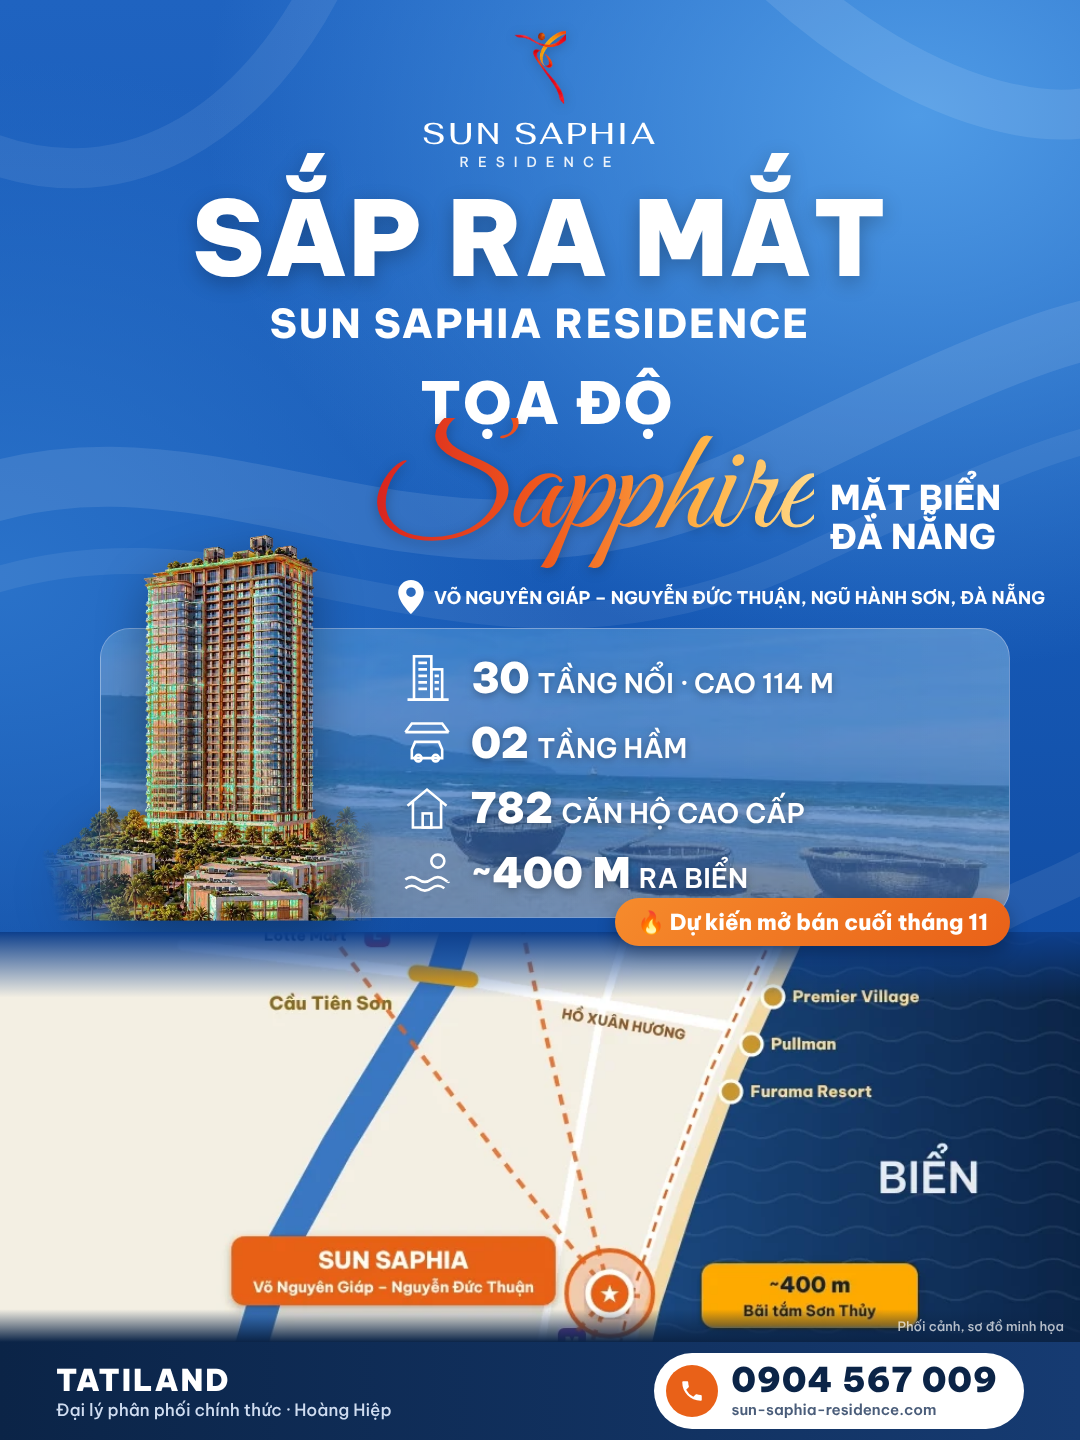
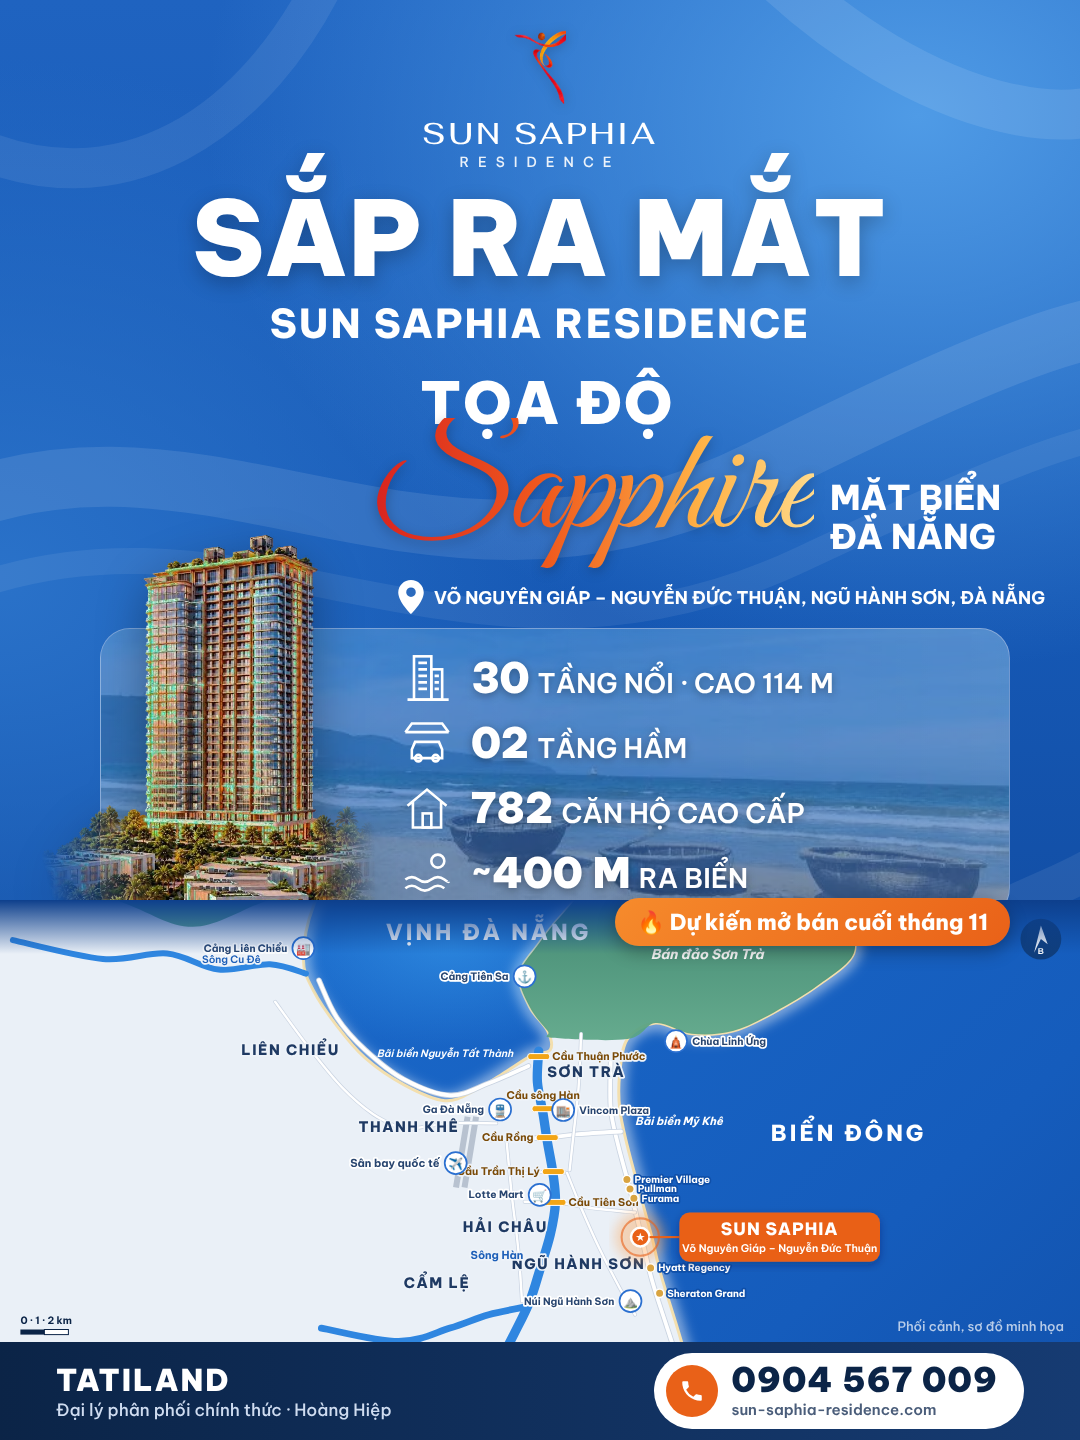
Bản đồ Đà Nẵng theo tọa độ thật + poster dùng bản đồ mới
Claude-Session: https://claude.ai/code/session_01QqqhqeJL7dLdZQGmjqHGDV

Changed region(s): [[0.0, 0.625, 1.0, 0.9375]]

diff --git a/landing/sun-saphia/seo/poster-sap-ra-mat/poster.html b/landing/sun-saphia/seo/poster-sap-ra-mat/poster.html
@@ -27,11 +27,11 @@ body{background:#ccc;font-family:"Be Vietnam Pro",sans-serif}
 .st svg{flex:none;width:52px;height:52px}
 .st p{font-size:27px;white-space:nowrap;font-weight:600;text-shadow:0 2px 8px rgba(0,0,0,.35)}
 .st p b{font-size:42px;font-weight:900;margin-right:8px}
-.mp{position:absolute;left:0;right:0;top:932px;height:410px;overflow:hidden}
-.mp img{width:100%;height:100%;object-fit:cover;object-position:50% 50%;display:block}
-.mp::before{content:"";position:absolute;inset:0;background:linear-gradient(180deg,#0d3f8c 0%,rgba(13,63,140,0) 16%,rgba(13,63,140,0) 92%,#0B2447 100%);z-index:1}
+.mp{position:absolute;left:0;right:0;top:900px;height:540px;overflow:hidden}
+.mp img{width:100%;height:100%;object-fit:cover;object-position:50% 100%;display:block}
+.mp::before{content:"";position:absolute;inset:0;background:linear-gradient(180deg,#0d3f8c 0%,rgba(13,63,140,0) 10%,rgba(13,63,140,0) 100%,#0B2447 100%);z-index:1}
 .mo{position:absolute;top:898px;right:70px;z-index:3;background:linear-gradient(135deg,#F68B2C,#E96118);font-weight:800;font-size:22px;padding:10px 22px;border-radius:999px;box-shadow:0 6px 18px rgba(0,0,0,.3)}
-.ft{position:absolute;left:0;right:0;bottom:0;height:98px;display:flex;align-items:center;gap:22px;padding:0 56px;background:linear-gradient(90deg,#0B2447,#163b72)}
+.ft{position:absolute;left:0;right:0;bottom:0;height:98px;z-index:4;display:flex;align-items:center;gap:22px;padding:0 56px;background:linear-gradient(90deg,#0B2447,#163b72)}
 .ft .a b{display:block;font-weight:900;font-size:30px;letter-spacing:2px}
 .ft .a span{font-size:17px;color:#cfdcf0}
 .ft .r{margin-left:auto;display:flex;align-items:center;gap:14px;background:#fff;color:#0B2447;border-radius:999px;padding:10px 26px 10px 12px}
@@ -65,7 +65,7 @@ body{background:#ccc;font-family:"Be Vietnam Pro",sans-serif}
  </div>
  <img class="tw" src="../../../../projects/sun-saphia/sk2310/thap-cat-3.webp" alt="">
  <div class="mo">🔥 Dự kiến mở bán cuối tháng 11</div>
- <div class="mp"><img src="ban-do.webp" alt=""></div>
+ <div class="mp"><img src="../ban-do-da-nang/ban-do-poster.png" alt=""></div>
  <div class="mh">Phối cảnh, sơ đồ minh họa</div>
  <div class="ft"><div class="a"><b>TATILAND</b><span>Đại lý phân phối chính thức · Hoàng Hiệp</span></div>
   <div class="r"><i><svg width="26" height="26" viewBox="0 0 24 24" fill="#fff"><path d="M6.6 10.8a15.1 15.1 0 006.6 6.6l2.2-2.2c.3-.3.7-.4 1-.2 1.1.4 2.3.6 3.6.6.6 0 1 .4 1 1V20c0 .6-.4 1-1 1C10.6 21 3 13.4 3 4c0-.6.4-1 1-1h3.5c.6 0 1 .4 1 1 0 1.3.2 2.5.6 3.6.1.3 0 .7-.2 1z"/></svg></i><div><b>0904 567 009</b><small>sun-saphia-residence.com</small></div></div></div>

diff --git a/landing/sun-saphia/seo/ban-do-da-nang/ve_ban_do.py b/landing/sun-saphia/seo/ban-do-da-nang/ve_ban_do.py
@@ -1,0 +1,151 @@
+"""Vẽ bản đồ Đà Nẵng (SVG) theo tọa độ thật (lon/lat, phép chiếu đều có hiệu chỉnh cos vĩ độ).
+Đường bờ biển: phác theo Natural Earth 10m + tọa độ các điểm mốc; mang tính minh họa."""
+import math, sys
+
+SEA = [  # (lon, lat) – vùng biển: vịnh Đà Nẵng + Biển Đông
+ (108.205,16.30),(108.60,16.30),(108.60,15.90),(108.305,15.90),(108.290,15.950),(108.280,15.985),(108.272,16.010),
+ (108.2685,16.024),(108.264,16.040),(108.259,16.058),(108.256,16.072),(108.256,16.085),(108.259,16.098),
+ (108.270,16.104),(108.284,16.100),(108.300,16.101),(108.316,16.108),(108.333,16.118),(108.347,16.130),
+ (108.343,16.143),(108.328,16.152),(108.308,16.142),(108.288,16.150),(108.265,16.160),(108.246,16.156),
+ (108.234,16.145),(108.224,16.133),(108.217,16.122),(108.221,16.110),(108.228,16.101),(108.229,16.094),
+ (108.222,16.092),(108.212,16.086),(108.200,16.079),(108.188,16.075),(108.172,16.081),(108.157,16.091),
+ (108.146,16.103),(108.137,16.116),(108.133,16.128),(108.137,16.148),(108.150,16.170),(108.172,16.190),
+ (108.195,16.203),(108.205,16.30)]
+SONTRA = [(108.2300,16.0985)] + SEA[SEA.index((108.259,16.098)):SEA.index((108.228,16.101))+1]
+HAIVAN = [(108.00,16.30),(108.205,16.30),(108.196,16.205),(108.176,16.193),(108.155,16.175),(108.142,16.152),
+ (108.120,16.150),(108.090,16.140),(108.060,16.150),(108.00,16.170)]
+WEST_HILLS = [(107.95,16.10),(108.05,16.10),(108.085,16.06),(108.10,16.00),(108.09,15.95),(107.95,15.95)]
+HAN = [(108.2245,16.0935),(108.2240,16.082),(108.2262,16.070),(108.2278,16.060),(108.2300,16.048),(108.2310,16.037),
+ (108.2290,16.025),(108.2250,16.012),(108.2210,16.000),(108.2150,15.988),(108.2080,15.975)]
+CUDE = [(108.1340,16.1225),(108.120,16.126),(108.100,16.124),(108.080,16.130),(108.055,16.128),(108.02,16.135)]
+CAMLE = [(108.2200,15.998),(108.205,15.995),(108.190,15.990),(108.170,15.985),(108.140,15.990)]
+ROADS = {  # tên: (điểm, độ đậm)
+ 'Võ Nguyên Giáp – Trường Sa': ([(108.2525,16.090),(108.2525,16.072),(108.2555,16.058),(108.2605,16.040),(108.2645,16.024),(108.2685,16.008),(108.2745,15.990),(108.283,15.965)],1),
+ 'Nguyễn Tất Thành': ([(108.2205,16.088),(108.205,16.0815),(108.190,16.077),(108.172,16.083),(108.157,16.094),(108.146,16.106),(108.139,16.120)],1),
+ 'Nguyễn Văn Linh – Võ Văn Kiệt': ([(108.206,16.0605),(108.2275,16.0612),(108.240,16.0625),(108.2565,16.0635)],1),
+ 'Điện Biên Phủ': ([(108.208,16.0665),(108.190,16.0665),(108.172,16.0640)],0),
+ 'Trần Thị Lý – Hồ Xuân Hương': ([(108.216,16.0478),(108.2310,16.0485),(108.2355,16.0480)],0),
+ 'Hồ Xuân Hương': ([(108.2190,16.0372),(108.2305,16.0370),(108.244,16.0350),(108.2585,16.0335),(108.2620,16.0332)],0),
+ 'Lê Văn Hiến': ([(108.2355,16.0480),(108.2410,16.035),(108.2480,16.020),(108.2560,16.005),(108.262,15.995)],0),
+ 'Nguyễn Hữu Thọ': ([(108.212,16.0600),(108.214,16.040),(108.2165,16.020),(108.218,16.000)],0),
+ 'Tôn Đức Thắng – QL1A': ([(108.172,16.0640),(108.160,16.0700),(108.148,16.080),(108.135,16.095),(108.122,16.112)],0),
+ 'Ngô Quyền': ([(108.2410,16.100),(108.2400,16.0800),(108.2380,16.0620),(108.2365,16.0490)],0),
+}
+BRIDGES = [('Cầu Thuận Phước',(108.2245,16.0915),'r'),('Cầu sông Hàn',(108.2262,16.0720),'u'),('Cầu Rồng',(108.2278,16.0612),'l'),
+ ('Cầu Trần Thị Lý',(108.2302,16.0485),'l'),('Cầu Tiên Sơn',(108.2308,16.0370),'r')]
+
+def make(W, H, lon0, lat1, span_lon, fs=1.0, poster=False):
+    k = W / (span_lon * math.cos(math.radians(16.05)))
+    def P(lon, lat): return ((lon - lon0) * math.cos(math.radians(16.05)) * k, (lat1 - lat) * k)
+    def path(pts, close=True):
+        q = [P(*p) for p in pts]
+        # đường cong mềm (Catmull-Rom → Bezier)
+        n = len(q); d = 'M%.1f %.1f' % q[0]
+        rng = range(n if close else n - 1)
+        for i in rng:
+            p0 = q[(i - 1) % n] if (close or i > 0) else q[i]; p1 = q[i]; p2 = q[(i + 1) % n]
+            p3 = q[(i + 2) % n] if (close or i + 2 < n) else p2
+            c1 = (p1[0] + (p2[0] - p0[0]) / 6, p1[1] + (p2[1] - p0[1]) / 6)
+            c2 = (p2[0] - (p3[0] - p1[0]) / 6, p2[1] - (p3[1] - p1[1]) / 6)
+            d += ' C%.1f %.1f %.1f %.1f %.1f %.1f' % (c1 + c2 + p2)
+        return d + (' Z' if close else '')
+    def lab(lon, lat, t, size=15, w=600, col='#4a5a75', anchor='middle', dx=0, dy=0, ls=0, halo='#eef3f9', it=False):
+        x, y = P(lon, lat); s = size * fs
+        st = 'font-style:italic;' if it else ''
+        return ('<text x="%.1f" y="%.1f" text-anchor="%s" style="font:%d %.1fpx \'Be Vietnam Pro\',sans-serif;letter-spacing:%.1fpx;%s" fill="%s" stroke="%s" stroke-width="%.1f" paint-order="stroke" stroke-linejoin="round">%s</text>'
+                % (x + dx * fs, y + dy * fs, anchor, w, s, ls, st, col, halo, 4 * fs if halo else 0, t))
+    def icon(lon, lat, emoji, t, side='r', col='#28456f', sz=13, dx=0, dy=0):
+        x, y = P(lon, lat); x += dx * fs; y += dy * fs; r = 13 * fs
+        o = '<circle cx="%.1f" cy="%.1f" r="%.1f" fill="#fff" stroke="#2a6fd0" stroke-width="%.1f"/><text x="%.1f" y="%.1f" text-anchor="middle" dominant-baseline="central" style="font-size:%.1fpx">%s</text>' % (x, y, r, 2 * fs, x, y + 1, 14 * fs, emoji)
+        tx = x + (r + 6 * fs) * (1 if side == 'r' else -1)
+        o += '<text x="%.1f" y="%.1f" text-anchor="%s" dominant-baseline="central" style="font:700 %.1fpx \'Be Vietnam Pro\',sans-serif" fill="%s" stroke="#fff" stroke-width="%.1f" paint-order="stroke" stroke-linejoin="round">%s</text>' % (tx, y, 'start' if side == 'r' else 'end', sz * fs, col, 4 * fs, t)
+        return o
+    o = ['<svg xmlns="http://www.w3.org/2000/svg" viewBox="0 0 %d %d" width="%d" height="%d">' % (W, H, W, H)]
+    o.append('''<defs>
+<linearGradient id="sea" x1="0" y1="0" x2="1" y2="1"><stop offset="0" stop-color="#1d6fd0"/><stop offset=".55" stop-color="#155cbc"/><stop offset="1" stop-color="#0c3f8f"/></linearGradient>
+<radialGradient id="bay" cx=".5" cy=".5" r=".5"><stop offset="0" stop-color="#3a9ff0" stop-opacity=".55"/><stop offset="1" stop-color="#3a9ff0" stop-opacity="0"/></radialGradient>
+<linearGradient id="hill" x1="0" y1="0" x2="0" y2="1"><stop offset="0" stop-color="#2f7a62"/><stop offset="1" stop-color="#5aa585"/></linearGradient>
+<filter id="sh" x="-20%" y="-20%" width="140%" height="140%"><feDropShadow dx="0" dy="3" stdDeviation="4" flood-color="#0b2447" flood-opacity=".35"/></filter>
+<filter id="glow"><feGaussianBlur stdDeviation="6"/></filter>
+</defs>''')
+    o.append('<rect width="%d" height="%d" fill="#eaf0f7"/>' % (W, H))
+    # khối phố (lưới nhẹ) vùng trung tâm
+    o.append('<path d="%s" fill="url(#hill)" opacity=".9"/>' % path(HAIVAN))
+    o.append('<clipPath id="sc0"><path d="%s"/></clipPath><path d="%s" fill="url(#sea)"/>' % (path(SEA), path(SEA)))
+    # vệt sáng bờ biển + cát
+    o.append('<path clip-path="url(#sc0)" d="%s" fill="none" stroke="#ffffff" stroke-opacity=".5" stroke-width="%.1f" filter="url(#glow)"/>' % (path(SEA), 16 * fs))
+    o.append('<path d="%s" fill="none" stroke="#f3dfae" stroke-width="%.1f"/>' % (path(SEA), 3.5 * fs))
+    bx, by = P(108.19, 16.135); o.append('<clipPath id="sc"><path d="%s"/></clipPath><ellipse clip-path="url(#sc)" cx="%.1f" cy="%.1f" rx="%.1f" ry="%.1f" fill="url(#bay)"/>' % (path(SEA), bx, by, 0.07 * k, 0.04 * k))
+    o.append('<path d="%s" fill="url(#hill)" opacity=".92"/>' % path(SONTRA))
+    # sông
+    for r, wd in ((HAN, 11), (CUDE, 7), (CAMLE, 8)):
+        o.append('<path d="%s" fill="none" stroke="#2f86e0" stroke-width="%.1f" stroke-linecap="round"/>' % (path(r, False), wd * fs))
+    # sân bay
+    a1, a2 = P(108.1985, 16.0690), P(108.1940, 16.0425)
+    for off in (-5, 5):
+        o.append('<line x1="%.1f" y1="%.1f" x2="%.1f" y2="%.1f" stroke="#b8c2d0" stroke-width="%.1f"/>' % (a1[0] + off * fs, a1[1], a2[0] + off * fs, a2[1], 7 * fs))
+    # đường
+    for name, (pts, bold) in ROADS.items():
+        o.append('<path d="%s" fill="none" stroke="#c9d3e1" stroke-width="%.1f" stroke-linecap="round"/>' % (path(pts, False), (6.5 if bold else 4.5) * fs))
+        o.append('<path d="%s" fill="none" stroke="#ffffff" stroke-width="%.1f" stroke-linecap="round"/>' % (path(pts, False), (4.5 if bold else 2.8) * fs))
+    # cầu
+    for n, (lo, la), side in BRIDGES:
+        x, y = P(lo, la)
+        o.append('<rect x="%.1f" y="%.1f" width="%.1f" height="%.1f" rx="%.1f" fill="#f2a516" stroke="#fff" stroke-width="%.1f"/>' % (x - 13 * fs, y - 3.5 * fs, 26 * fs, 7 * fs, 3 * fs, 1.2 * fs))
+        if side == 'u': o.append(lab(lo, la, n, 12.5, 700, '#7a4a07', 'middle', dy=-12))
+        else: o.append(lab(lo, la, n, 12.5, 700, '#7a4a07', 'start' if side == 'r' else 'end', dx=(16 if side == 'r' else -16), dy=4))
+    # vùng/quận
+    for lo, la, t in ((108.128, 16.092, 'LIÊN CHIỂU'), (108.174, 16.0635, 'THANH KHÊ'), (108.2115, 16.026, 'HẢI CHÂU'),
+                      (108.243, 16.084, 'SƠN TRÀ'), (108.240, 16.012, 'NGŨ HÀNH SƠN'), (108.185, 16.005, 'CẨM LỆ')):
+        o.append(lab(lo, la, t, 17, 800, '#1f3a63', ls=1.5))
+    o.append(lab(108.205, 16.135, 'VỊNH ĐÀ NẴNG', 26, 800, '#ffffff', halo='', ls=3))
+    o.append(lab(108.345, 16.060, 'BIỂN ĐÔNG', 26, 800, '#ffffff', halo='', ls=3))
+    o.append(lab(108.290, 16.128, 'Bán đảo Sơn Trà', 16, 700, '#ffffff', halo='', it=True))
+    o.append(lab(108.115, 16.170, 'Đèo Hải Vân', 15, 700, '#ffffff', halo='', it=True))
+    o.append(lab(108.1050, 16.124, 'Sông Cu Đê', 12, 600, '#1d5fb8', dy=-8))
+    o.append(lab(108.2205, 16.016, 'Sông Hàn', 13, 700, '#1d5fb8', 'end', dx=-6))
+    o.append(lab(108.2620, 16.066, 'Bãi biển Mỹ Khê', 13, 700, '#ffffff', 'start', halo='', it=True))
+    o.append(lab(108.1880, 16.090, 'Bãi biển Nguyễn Tất Thành', 12, 600, '#ffffff', halo='', dy=-4, it=True))
+    # biểu tượng địa điểm
+    o.append(icon(108.1962, 16.0555, '✈', 'Sân bay quốc tế', 'l', sz=13, dx=-12, dy=12))
+    o.append(icon(108.2307, 16.0715, '🏬', 'Vincom Plaza', 'r', sz=12, dx=10))
+    o.append(icon(108.2262, 16.0398, '🛒', 'Lotte Mart', 'l', sz=12, dx=-4))
+    o.append(icon(108.2095, 16.0717, '🚆', 'Ga Đà Nẵng', 'l', sz=12))
+    o.append(icon(108.2190, 16.1215, '⚓', 'Cảng Tiên Sa', 'l', sz=12))
+    o.append(icon(108.2779, 16.1004, '🛕', 'Chùa Linh Ứng', 'r', sz=12, dy=10))
+    o.append(icon(108.1330, 16.1320, '🏭', 'Cảng Liên Chiểu', 'l', sz=12))
+    o.append(icon(108.2615, 16.0020, '⛰', 'Núi Ngũ Hành Sơn', 'l', sz=12, dx=-4, dy=6))
+    o.append(icon(108.2400, 16.0400, '🎡', 'Asia Park', 'l', sz=12, dx=-6, dy=4) if False else '')
+    # resort ven biển
+    for lo, la, t in ((108.2588, 16.0455, 'Premier Village'), (108.2600, 16.0420, 'Pullman'), (108.2615, 16.0385, 'Furama'),
+                      (108.2680, 16.0125, 'Hyatt Regency'), (108.2715, 16.0030, 'Sheraton Grand')):
+        x, y = P(lo, la); o.append('<circle cx="%.1f" cy="%.1f" r="%.1f" fill="#d9a441" stroke="#fff" stroke-width="%.1f"/>' % (x, y, 5 * fs, 1.6 * fs))
+        o.append(lab(lo, la, t, 11.5, 700, '#ffffff', 'start', dx=9, dy=4, halo='#0f4fa8'))
+    # SUN SAPHIA
+    x, y = P(108.2640, 16.0240)
+    o.append('<circle cx="%.1f" cy="%.1f" r="%.1f" fill="#ff9a3c" opacity=".35" filter="url(#glow)"/>' % (x, y, 30 * fs))
+    o.append('<circle cx="%.1f" cy="%.1f" r="%.1f" fill="none" stroke="#E96118" stroke-width="%.1f" opacity=".6"/>' % (x, y, 22 * fs, 2.5 * fs))
+    o.append('<circle cx="%.1f" cy="%.1f" r="%.1f" fill="#E96118" stroke="#fff" stroke-width="%.1f"/>' % (x, y, 11 * fs, 3 * fs))
+    o.append('<text x="%.1f" y="%.1f" text-anchor="middle" dominant-baseline="central" fill="#fff" style="font-size:%.1fpx">★</text>' % (x, y + 0.5, 12 * fs))
+    bw, bh = 236 * fs, 58 * fs; bx, by = x + 46 * fs, y - bh / 2
+    o.append('<line x1="%.1f" y1="%.1f" x2="%.1f" y2="%.1f" stroke="#E96118" stroke-width="%.1f"/>' % (bx, by + bh / 2, x + 11 * fs, y, 2.5 * fs))
+    o.append('<g filter="url(#sh)"><rect x="%.1f" y="%.1f" width="%.1f" height="%.1f" rx="%.1f" fill="#E96118"/></g>' % (bx, by, bw, bh, 12 * fs))
+    o.append('<text x="%.1f" y="%.1f" text-anchor="middle" style="font:800 %.1fpx \'Be Vietnam Pro\',sans-serif;letter-spacing:1px" fill="#fff">SUN SAPHIA</text>' % (bx + bw / 2, by + 26 * fs, 20 * fs))
+    o.append('<text x="%.1f" y="%.1f" text-anchor="middle" style="font:600 %.1fpx \'Be Vietnam Pro\',sans-serif" fill="#fff">Võ Nguyên Giáp – Nguyễn Đức Thuận</text>' % (bx + bw / 2, by + 46 * fs, 12.5 * fs))
+    # la bàn + thước tỷ lệ
+    cx, cy = W - 46 * fs, 46 * fs
+    o.append('<circle cx="%.1f" cy="%.1f" r="%.1f" fill="#0b2447" opacity=".55"/><path d="M%.1f %.1fl%.1f %.1fl-%.1f -%.1fl-%.1f %.1fz" fill="#fff"/><text x="%.1f" y="%.1f" text-anchor="middle" style="font:800 %.1fpx sans-serif" fill="#fff">B</text>'
+             % (cx, cy, 24 * fs, cx, cy - 16 * fs, 8 * fs, 22 * fs, 8 * fs, 6 * fs, 8 * fs, 16 * fs, cx, cy + 17 * fs, 10 * fs))
+    km = k * 1 / 111.32 / 1  # px cho 1 km theo vĩ độ
+    sx, sy = 24 * fs, H - (130 if poster else 26) * fs
+    o.append('<g><rect x="%.1f" y="%.1f" width="%.1f" height="%.1f" fill="#0b2447"/><rect x="%.1f" y="%.1f" width="%.1f" height="%.1f" fill="#fff" stroke="#0b2447"/>' % (sx, sy, km, 6 * fs, sx + km, sy, km, 6 * fs))
+    o.append('<text x="%.1f" y="%.1f" style="font:700 %.1fpx \'Be Vietnam Pro\',sans-serif" fill="#0b2447" stroke="#eaf0f7" stroke-width="3" paint-order="stroke">0 · 1 · 2 km</text></g>' % (sx, sy - 6 * fs, 12 * fs))
+    o.append('</svg>')
+    return '\n'.join(o)
+
+if __name__ == '__main__':
+    import pathlib; here = pathlib.Path(__file__).parent
+    # bản đứng riêng 1600×1200
+    (here / 'ban-do-da-nang.svg').write_text(make(1600, 1200, 108.085, 16.205, 0.305, fs=1.35), encoding='utf8')
+    # bản cho poster 1080×560
+    (here / 'ban-do-poster.svg').write_text(make(1080, 540, 108.015, 16.150, 0.420, fs=0.85, poster=True), encoding='utf8')
